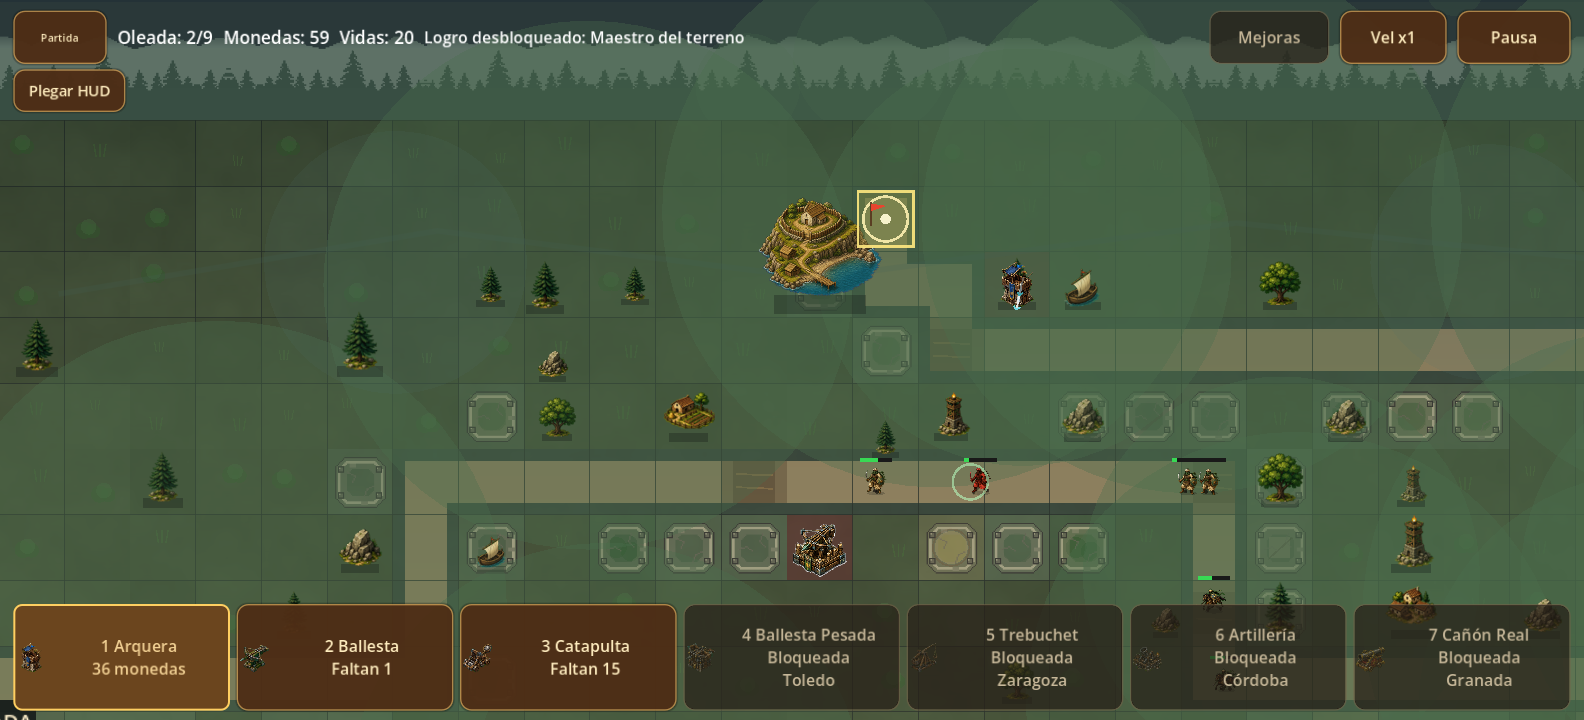
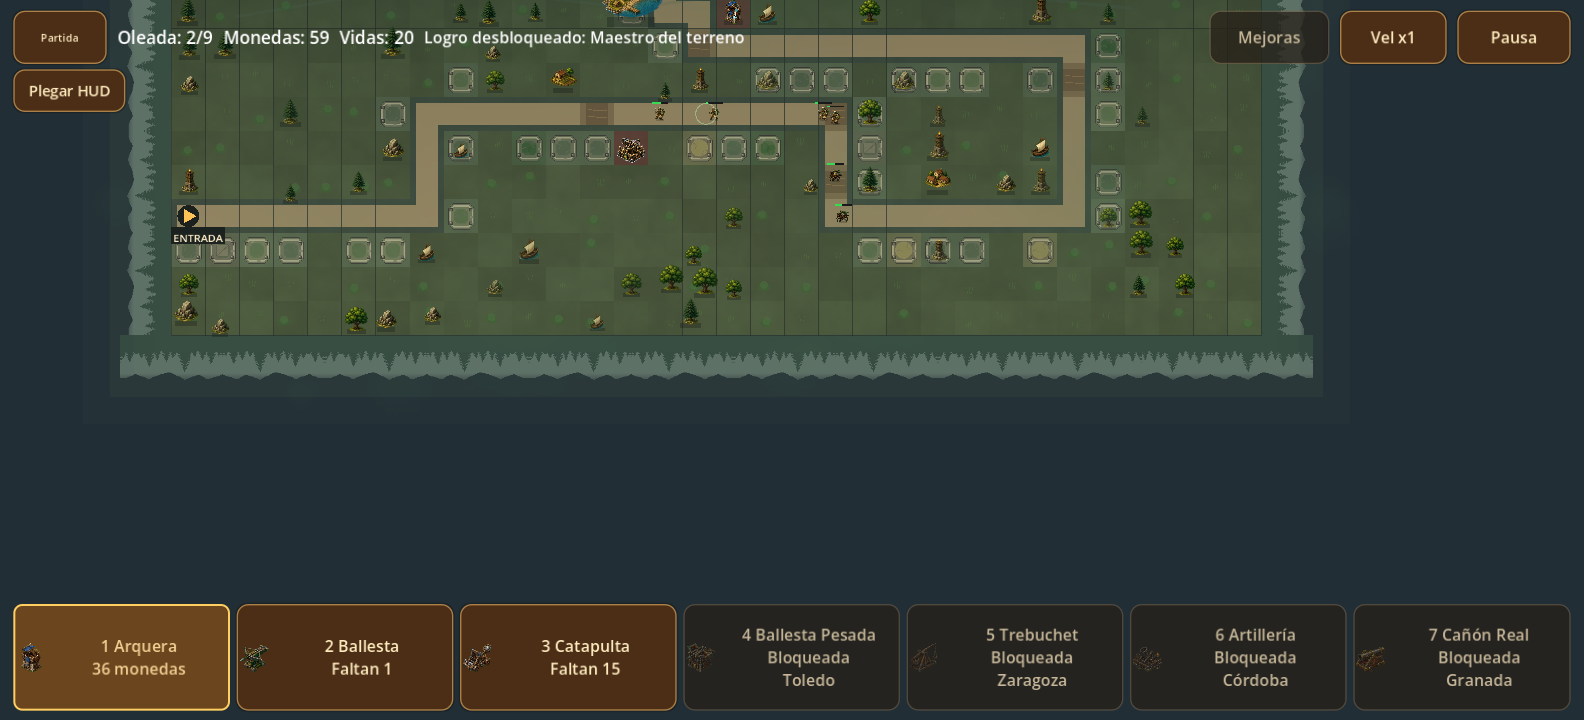
Publish beta 2 changelog and replace permission contact with X and issues

diff --git a/RELEASE_NOTES.md b/RELEASE_NOTES.md
@@ -1,4 +1,4 @@
-# Reconquista TD 0.1.0-beta.1
+# Reconquista TD 0.1.0-beta.2
 
 > **El código fuente del juego NO está publicado.** Los enlaces «Source code
 > (zip)» y «Source code (tar.gz)» los genera GitHub automáticamente y contienen
@@ -6,25 +6,37 @@
 > scripts ni el proyecto de Godot. Para jugar, utiliza el APK de Android o el ZIP
 > de Windows de esta publicación.
 
-Primera beta pública para **Android ARM64** y **Windows x64**.
+Nueva beta para **Android ARM64** y **Windows x64**, centrada en legibilidad móvil
+y un terreno visualmente más natural.
 
-Campaña de 52 ciudades, héroes, siete torres, mejoras, desafíos, decretos,
-supervivencia endless y eventos diarios y semanales. Interfaz y textos en español.
+## Cambios
 
-Incluye las correcciones de guardado y progresión de `main`, la interfaz compacta
-y el desplazamiento del mapa que permite llevar sus esquinas fuera del HUD.
-Utiliza el renderizador Compatibility/OpenGL y no activa el diagnóstico del HUD.
+- Texto mayor en Android, adaptado a la densidad de pantalla.
+- Menú más ancho y tarjetas de torres en dos filas, con nombres y costes legibles.
+- Mejoras, pausa, tutorial, presentación de enemigos y resultados adaptados.
+- Información enemiga amplia y con descripciones desplazables.
+- Botones de victoria y derrota fijos y accesibles mientras se consulta el detalle.
+- Suelo con variaciones suaves e irregulares, sin los discos claros de borde duro.
+  Los indicadores de alcance y área de impacto se conservan.
+- Contacto para permisos mediante Twitter/X
+  [@jatomic007](https://twitter.com/jatomic007) o
+  [abriendo una issue](https://github.com/javieratomic/reconquista/issues/new?title=Solicitud%20de%20permiso).
+
+Sin cambios en estadísticas, recompensas, oleadas o geometría de rutas.
+Consulta el [changelog completo](https://github.com/javieratomic/reconquista/blob/main/CHANGELOG.md).
 
 ## Archivos
 
-- `reconquista-0.1.0-beta.1-android-arm64.apk`: Android 7.0+, dispositivos ARM64.
-- `reconquista-0.1.0-beta.1-windows-x64.zip`: Windows 10/11 x64, versión portable.
+- `reconquista-0.1.0-beta.2-android-arm64.apk`: Android 7.0+, dispositivos ARM64.
+- `reconquista-0.1.0-beta.2-windows-x64.zip`: Windows 10/11 x64, versión portable.
 - `SHA256SUMS.txt`: hashes de comprobación.
 - `LICENSE.txt` y `THIRD_PARTY_NOTICES.md`: condiciones y avisos de terceros.
 
 ## Instalación
 
-Android: instala el APK descargado desde esta publicación. Los APK antiguos de
+Android: actualiza la beta pública anterior instalando el APK **sin desinstalar**
+el juego. Se conserva el mismo paquete y la misma firma de publicación.
+Los APK antiguos de
 pruebas usan otra firma; **no desinstales una build con partida para instalar esta
 versión sin consultar antes cómo conservar tus datos**.
 
@@ -33,11 +45,11 @@ ni una instalación de Godot. El ejecutable no lleva firma Authenticode.
 
 ## Estado de la beta
 
-Paquetes compilados en modo release. Firma del APK y contenido de los paquetes
-verificados; arranque de Windows comprobado. Se han ejecutado las pruebas de HUD,
-tarjetas, compatibilidad de rutas y 9360 posiciones de cámara. No se ha repetido
-una campaña completa ni validado este APK de publicación en todos los dispositivos.
+Pruebas de legibilidad a 420 y 480 DPI simulados, HUD, tarjetas, terreno,
+compatibilidad de guardados y 9.360 posiciones de cámara. El Pixel 9a físico
+todavía necesita validación de los usuarios. No se ha repetido una campaña
+completa ni realizado un benchmark de rendimiento para esta beta.
 Google Play, publicidad y compras reales no están conectados en esta versión.
 
 El juego es gratuito para jugar; modificarlo o monetizarlo requiere permiso previo
-por escrito. Contacto: javieratomic@gmail.com. Consulta `LICENSE.txt`.
+por escrito a través de los canales indicados arriba. Consulta `LICENSE.txt`.

diff --git a/README.md b/README.md
@@ -20,15 +20,22 @@ combina armas de asedio y dirige a tu héroe frente a oleadas cada vez más exig
 > público, no el proyecto ni los scripts del juego. Para jugar, descarga el APK
 > de Android o el ZIP de Windows indicados a continuación.
 
-Primera beta pública: **0.1.0-beta.1**. El juego sigue en desarrollo.
+Beta pública actual: **0.1.0-beta.2**. El juego sigue en desarrollo.
 
 | Plataforma | Descarga | Instalación |
 | --- | --- | --- |
-| Android 7.0 o posterior, ARM64 | [Descargar APK](https://github.com/javieratomic/reconquista/releases/download/v0.1.0-beta.1/reconquista-0.1.0-beta.1-android-arm64.apk) | Instala el APK en tu teléfono. |
-| Windows 10/11 de 64 bits | [Descargar ZIP portable](https://github.com/javieratomic/reconquista/releases/download/v0.1.0-beta.1/reconquista-0.1.0-beta.1-windows-x64.zip) | Extrae la carpeta completa y ejecuta `Reconquista.exe`. |
+| Android 7.0 o posterior, ARM64 | [Descargar APK](https://github.com/javieratomic/reconquista/releases/download/v0.1.0-beta.2/reconquista-0.1.0-beta.2-android-arm64.apk) | Instala el APK en tu teléfono. |
+| Windows 10/11 de 64 bits | [Descargar ZIP portable](https://github.com/javieratomic/reconquista/releases/download/v0.1.0-beta.2/reconquista-0.1.0-beta.2-windows-x64.zip) | Extrae la carpeta completa y ejecuta `Reconquista.exe`. |
 
 [Todas las versiones y notas de publicación](https://github.com/javieratomic/reconquista/releases)
-· [Comprobaciones SHA-256](https://github.com/javieratomic/reconquista/releases/download/v0.1.0-beta.1/SHA256SUMS.txt)
+· [Comprobaciones SHA-256](https://github.com/javieratomic/reconquista/releases/download/v0.1.0-beta.2/SHA256SUMS.txt)
+· [Changelog](CHANGELOG.md)
+
+**Novedades de esta beta:** texto mayor y paneles adaptados en Android, información
+enemiga desplazable y variaciones del terreno más suaves, sin los círculos claros
+de borde duro. Los valores de combate y las recompensas se mantienen.
+
+![Menú móvil con texto ampliado](media/menu-mobile.png)
 
 ## Qué encontrarás
 
@@ -205,7 +212,8 @@ código abierto.
 
 [Condiciones completas](LICENSE.txt) · [Avisos de terceros](THIRD_PARTY_NOTICES.md)
 
-Para solicitar permisos: **[javieratomic@gmail.com](mailto:javieratomic@gmail.com)**.
+Para solicitar permisos: **[Twitter/X @jatomic007](https://twitter.com/jatomic007)**
+o **[abre una issue](https://github.com/javieratomic/reconquista/issues/new?title=Solicitud%20de%20permiso)**.
 Describe qué deseas modificar o cómo deseas monetizarlo.
 
 ## Errores y sugerencias

diff --git a/CHANGELOG.md b/CHANGELOG.md
@@ -1,0 +1,37 @@
+# Changelog
+
+## 0.1.0-beta.2 · 22 de octubre de 2026
+
+### Legibilidad en Android
+
+- Texto mínimo adaptado a la densidad de pantalla y al tamaño del lienzo.
+- Menú principal más ancho, con resumen breve y opciones en dos columnas.
+- Torres en dos filas, con nombres y precios mayores; confirmar y cancelar
+  colocación quedan por encima de las tarjetas.
+- Panel de mejoras ampliado e información enemiga a todo lo ancho, con detalle
+  desplazable para descripciones largas.
+- Tutorial, presentación de enemigos, pausa y resultados adaptados al texto grande.
+- Botones de victoria y derrota siempre visibles, con el detalle desplazable.
+
+### Terreno y documentación
+
+- Variaciones de terreno suaves e irregulares en lugar de discos claros de borde
+  duro. Se mantienen los indicadores de alcance y área de impacto de las torres.
+- Más ejemplos de arte en el README: héroes, enemigos, torres, enclaves y biomas.
+- Solicitudes de modificación o monetización por Twitter/X
+  [@jatomic007](https://twitter.com/jatomic007) o
+  [abriendo una issue](https://github.com/javieratomic/reconquista/issues/new?title=Solicitud%20de%20permiso).
+- Sin cambios en estadísticas de combate, oleadas, recompensas o rutas.
+
+Validación: pruebas automáticas de legibilidad a 420/480 DPI simulados, HUD,
+tarjetas, máscara de terreno, guardados antiguos y 9.360 posiciones de cámara.
+El Pixel 9a físico sigue pendiente de validación por los usuarios. Esta publicación
+no incluye un nuevo autoplay completo ni un benchmark de rendimiento.
+
+## 0.1.0-beta.1 · 20 de octubre de 2026
+
+- Primera beta pública para Android ARM64 y Windows x64.
+- Campaña de 52 ciudades, siete torres, cinco héroes, desafíos, decretos,
+  supervivencia endless y eventos diarios y semanales.
+- Mejoras de HUD y cámara e integración de correcciones de guardado y progresión.
+- Publicación separada: código privado y documentación/descargas públicas.

diff --git a/INSTALL.md b/INSTALL.md
@@ -1,4 +1,4 @@
-# Reconquista TD 0.1.0-beta.1
+# Reconquista TD 0.1.0-beta.2
 
 ## Windows
 
@@ -17,6 +17,9 @@ Si ya tienes una build privada de pruebas con una partida, NO LA DESINSTALES.
 La clave de publicación es diferente y Android no permite actualizarla directamente.
 Contacta antes con el autor para conservar tu progreso.
 
+Si instalaste la beta pública anterior, instala este APK como actualización sin
+desinstalarla: mantiene el mismo paquete y la misma firma de publicación.
+
 ## Empezar a jugar
 
 Entra en Campaña y comienza en Oviedo. El tutorial presenta las herramientas de
@@ -31,6 +34,7 @@ Conserva una copia de esa carpeta antes de cambiar de equipo o probar nuevas ver
 
 Descargas: https://github.com/javieratomic/reconquista/releases
 Errores: https://github.com/javieratomic/reconquista/issues
-Permisos de modificación o monetización: javieratomic@gmail.com.
+Permisos de modificación o monetización: Twitter/X @jatomic007
+(https://twitter.com/jatomic007) o https://github.com/javieratomic/reconquista/issues.
 
 Jugar es gratuito. Las condiciones completas se incluyen en `LICENSE.txt`.
